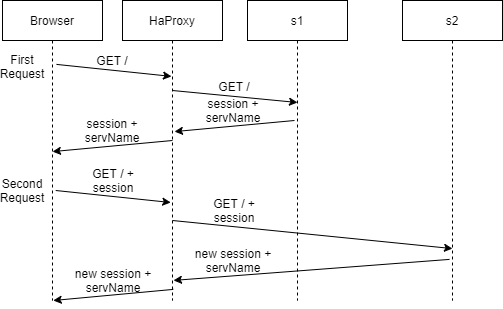
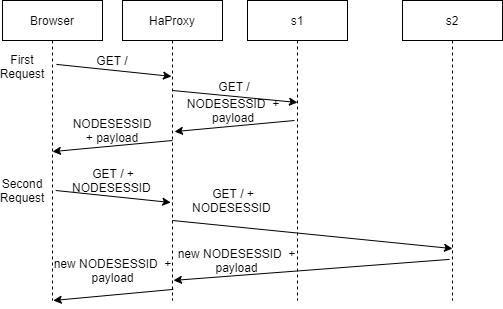
Changed digramm and added intro and conclusion

diff --git a/labo3/Rapport.md b/labo3/Rapport.md
@@ -5,6 +5,9 @@
 
 ### Introduction
 
+In this laboratory, we will configure a load-balancer with different modes like sticky sessions or drain. We will also look at the results with the different modes. We will also look at what happens when a server is lower than another. In the end, we will look at two new algorithm and compare them by showing results and choose the most suitable for the laboratory.
+
+
 ### Task 1 : Install the tools
 #### 1.1
 After starting the different containers using docker compose, when we open the browser we can see the following result :
@@ -55,7 +58,7 @@ We can also see a different behavior from the session handling :
 
 This time because we communicate with the same server we did not change our session id and the sessionView variable incremented as expected.
 
-### Task 2
+### Task 2 : Sticky sessions
 #### 2.1
 The difference between the two ways of implementing sticky sessions is mainly the creator of the parameters. In the first case with the SERVERID the HAProxy will handle it so the id of the server will be added to the response of the server by the proxy to track which server responded. The SERVERID will only be seen by the HAProxy, the servers will not see it has it will be a parameter in the http header in the cookie section.
 Here is a diagram of the situation :
@@ -110,7 +113,7 @@ We can confirm the result also be watching the content of the last response of e
 <img alt="Test 1" src="./img/2.6_2.PNG" width="700" >
 
 
-### Task 3
+### Task 3 : Drain mode
 #### 3.1
 We get the following page when we access the HAProxy statistics page:
 <img alt="3.1" src="./img/3.1.png" width="700" >
@@ -160,7 +163,7 @@ HAProxy stats page:
 <img alt="3.7" src="./img/3.7.png" width="700" >
 
 
-### Task 4
+### Task 4 : Round robin in degraded mode
 <<<<<<< HEAD
 First we gonna reset the value of the s1 delay to 0 (note that we use docker toolbox for this stage):
 ![delay conf ](./img/4.0.png)
@@ -237,7 +240,7 @@ With the previous configuration,  S1 took a higher weight ,so it  handles a grea
 
 The change is quite major.We see that more load is processed by the faster node or we can say the available one. This is due to the concurrent session limit on each node.The node cannot process more than a limited  simultaneous sessions and in our case it takes 250 ms before responding. The Proxy server HAProxy  will therefore send the requests that coming to a node which is available in this case the S2 node.
 
-### Task 5
+### Task 5 :  Balancing strategies
 #### 5.1
 We decided to implement the following strategies :
 - **leastconn** : This strategy will permit to choose the server with the least connections. A round-robin is used to choose the server within groups of server with the same load. We think that this strategy is interesting because we can always choose the server with the least connections and we can avoid that a server has 1000 connections because the users do not disconnect and a server that only has 10 connections because the users quit quickly. With this strategy we can be sure that the servers will have the same amount of connections and so we can balance fairly the servers.  
@@ -276,10 +279,11 @@ Like before we implemented the source algorithm in the haproxy.cfg file :
 #### 5.3
 We think that for this lab the best strategy is the leastconn and we will explain why. The problem with the source algorithm is that for instance, if we have a server that will receive connections from the HEIG-VD we will have a problem beacause all the students go on the internet with the same IP adress and so all the requests made by the students will be directed to the same server and we do not have a right balance between the servers. This could lead to a problem if the server cannot handle a lot of requests it cloud cause a DoS for instance.
 
-With the leastconn we do not have this problem because the server will have the same amount of connections. In this case if we take a look at the same example the students of the HEIG-VD will not contact the same server because when creating a connection it will not redirect to the same server if another server as least connection.
+With the leastconn we do not have this problem because the server will have the same amount of connections. In this case, if we take a look at the same example the students of the HEIG-VD will not contact the same server because when creating a connection it will not redirect to the same server if another server as least connection.
 
 In the case of the lab, if we use the source algorithm we will only test one server because the ip adress is the local address and we will always contact or the s1 server or the s2 server. And so, we think that because of that the leastconn is more interesting because we will contact the two servers equally and we can test the 2 servers and not only one.
 
-
-
 ### Conclusion
+To conlude, we found this laboratory interesting because we could practice the theory seen in the course. It was also interesting to see what can happen if a load-balancer does have a slower server or if the session stickness is not enbale. Seeing mutliple balancing strategies and to choose between them as also a interesting point in the laboratory.
+
+Finally, we are happy with the result that we have and we think that we completed the laboratory successfully.
